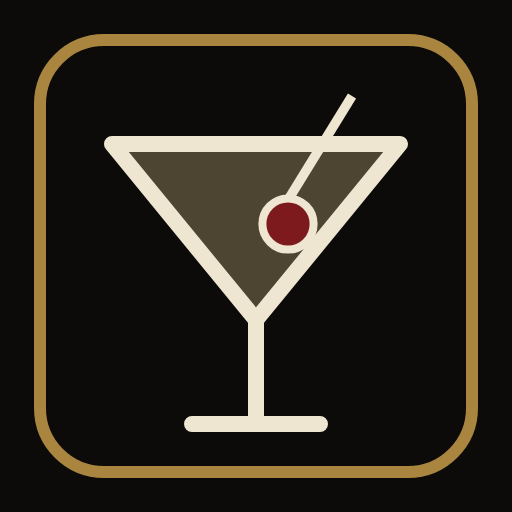
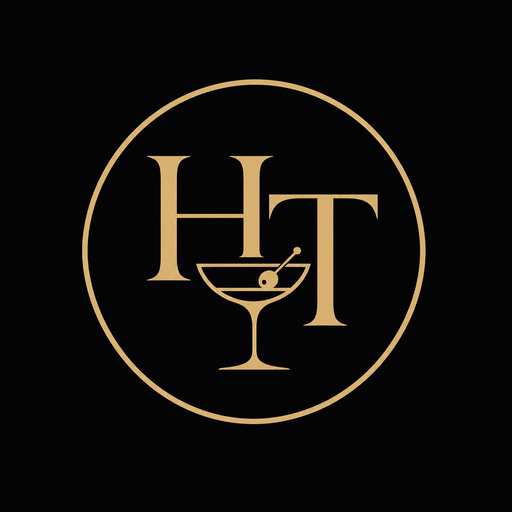
Add premium HT cocktail branding and home masthead

diff --git a/app/style.css b/app/style.css
@@ -51,9 +51,9 @@ button { font: inherit; color: inherit; }
 .cover-top { position: absolute; z-index: 2; top: calc(14px + env(safe-area-inset-top)); right: 16px; }
 .cover-inner { position: relative; z-index: 1; max-width: 1120px; margin: 0 auto; padding: calc(64px + env(safe-area-inset-top)) 20px calc(28px + env(safe-area-inset-bottom)); min-height: 100vh; min-height: 100dvh; display: flex; flex-direction: column; }
 .cover-brand { text-align: center; animation: rise-in 1s ease both; }
-.monogram { width: 56px; height: 56px; color: var(--gold-2); }
+.monogram { width: 96px; height: 96px; margin: 0 auto; object-fit: contain; border-radius: 50%; }
 .eyebrow { margin: 14px 0 0; font-size: 11.5px; font-weight: 500; letter-spacing: var(--track); text-transform: uppercase; color: rgba(243, 238, 230, .75); }
-.brand-title { margin: 10px 0 0; font-family: var(--display); font-weight: 400; font-size: clamp(50px, 14vw, 112px); line-height: .95; letter-spacing: var(--track-tight); color: var(--text); text-shadow: 0 2px 30px rgba(0, 0, 0, .55); }
+.brand-title { margin: 16px 0 0; font-family: var(--display); font-weight: 400; font-size: clamp(34px, 9vw, 100px); line-height: 1.05; letter-spacing: .065em; color: var(--text); text-shadow: 0 2px 30px rgba(0, 0, 0, .55); }
 .cover-tag { margin: 14px 0 0; font-family: var(--ui); font-weight: 400; font-size: 13px; letter-spacing: var(--track); text-transform: uppercase; color: rgba(243, 238, 230, .85); }
 .cover-tag::before, .cover-tag::after { content: ''; display: inline-block; width: 34px; height: 1px; background: var(--gold); vertical-align: middle; margin: 0 14px; opacity: .7; }
 .cover-grid { margin-top: auto; padding-top: 36vh; display: grid; gap: 28px; align-items: end; }
@@ -93,8 +93,8 @@ button { font: inherit; color: inherit; }
 .shell[hidden] { display: none; }
 .topbar { position: sticky; top: 0; z-index: 30; display: flex; align-items: center; justify-content: space-between; gap: 12px; padding: calc(10px + env(safe-area-inset-top)) 16px 10px; background: var(--bg); border-bottom: 1px solid var(--line); }
 .topbar-brand { display: flex; align-items: center; gap: 10px; text-decoration: none; color: var(--gold-2); flex: none; }
-.topbar-brand .monogram { width: 28px; height: 28px; }
-.topbar-brand span { font-family: var(--display); font-weight: 500; font-size: 15px; letter-spacing: .22em; text-transform: uppercase; color: var(--text); }
+.topbar-brand .monogram { width: 36px; height: 36px; margin: 0; }
+.topbar-brand span { font-family: var(--display); font-weight: 500; font-size: 15px; letter-spacing: .16em; text-transform: uppercase; color: var(--text); }
 .topbar-right { display: flex; align-items: center; gap: 10px; }
 .user-account { position: relative; flex: none; }
 .user-toggle { display: flex; align-items: center; justify-content: center; gap: 7px; min-height: 44px; padding: 6px 10px; border: 1px solid var(--line-gold); border-radius: var(--radius); background: transparent; color: var(--gold-2); cursor: pointer; }
@@ -302,12 +302,19 @@ main { max-width: 1240px; margin: 0 auto; padding: 8px 16px 40px; outline: none;
 
 /* ── Início: introdução editorial ── */
 .intro { max-width: 1120px; margin: 0 auto; }
+.intro-brand { display: flex; flex-direction: column; align-items: center; padding: 24px 0 32px; text-align: center; }
+.intro-brand-emblem { width: 88px; height: 88px; margin-bottom: 14px; object-fit: contain; border-radius: 50%; }
+.intro-brand-title { margin: 0; font-family: var(--display); font-size: clamp(30px, 8.2vw, 76px); font-weight: 400; line-height: 1.1; letter-spacing: .095em; text-indent: .095em; color: var(--text); }
+.intro-brand-title span:last-child { color: var(--gold-2); }
+.intro-brand-tagline { display: flex; align-items: center; gap: 14px; margin: 14px 0 0; font-size: 9px; font-weight: 500; letter-spacing: .24em; text-transform: uppercase; color: var(--gold); }
+.intro-brand-tagline::before, .intro-brand-tagline::after { content: ''; width: 28px; height: 1px; background: var(--line-gold); }
+@media (min-width: 860px) { .intro-brand { padding: 34px 0 42px; } .intro-brand-emblem { width: 112px; height: 112px; margin-bottom: 18px; } .intro-brand-tagline { font-size: 11px; gap: 20px; } .intro-brand-tagline::before, .intro-brand-tagline::after { width: 52px; } }
 .intro-hero { position: relative; margin: 0 -16px; min-height: 68vh; display: flex; align-items: flex-end; overflow: hidden; }
 .intro-hero img { position: absolute; inset: 0; width: 100%; height: 100%; object-fit: cover; object-position: 50% 60%; filter: saturate(.5) sepia(.3) contrast(1.05) brightness(.8); }
 .intro-hero::after { content: ''; position: absolute; inset: 0; background: linear-gradient(180deg, rgba(11, 11, 12, .1) 0%, rgba(11, 11, 12, .35) 45%, var(--bg) 100%); }
 .intro-hero-text { position: relative; z-index: 1; padding: 0 20px 36px; max-width: 760px; }
 .intro-hero .eyebrow { margin: 0; color: var(--gold-2); }
-.intro-hero h1 { margin: 10px 0 0; font-family: var(--display); font-weight: 400; font-size: clamp(46px, 11vw, 90px); line-height: 1; letter-spacing: var(--track-tight); }
+.intro-hero h2 { margin: 10px 0 0; font-family: var(--display); font-weight: 400; font-size: clamp(46px, 11vw, 90px); line-height: 1; letter-spacing: var(--track-tight); }
 .intro-lede { margin: 16px 0 0; font-family: var(--read); font-size: 20px; line-height: 1.6; color: #e2d9c9; max-width: 46ch; }
 @media (min-width: 860px) { .intro-hero { margin: 0; min-height: 540px; border-radius: var(--radius); } .intro-hero-text { padding: 0 52px 52px; } }
 .intro-index { display: flex; gap: 6px 22px; overflow-x: auto; padding: 16px 2px; border-bottom: 1px solid var(--line); scrollbar-width: none; }
@@ -518,7 +525,7 @@ html { -webkit-tap-highlight-color: transparent; }
   .tut-txt { font-size: 17.5px; }
   .tut-step { padding: 8px 4px 10px 0; min-height: 44px; }
   /* Início */
-  .intro-hero h1 { font-size: 42px; }
+  .intro-hero h2 { font-size: 42px; }
   .intro-lede { font-size: 17.5px; }
   .tabs a { min-height: 54px; }
 }

diff --git a/app/index.html b/app/index.html
@@ -9,7 +9,7 @@
   <meta name="apple-mobile-web-app-title" content="Home Tender">
   <meta name="description" content="Home Tender: the classic cocktails of the IBA official list, with history, recipes, glassware, tools and suggestions from your own bar. Português, English, Español.">
   <title>Home Tender</title>
-  <link rel="icon" href="icon.svg">
+  <link rel="icon" href="icon-192.png" type="image/png">
   <link rel="apple-touch-icon" href="apple-touch-icon.png">
   <link rel="manifest" href="manifest.webmanifest">
   <link rel="preload" as="image" href="img/cover.jpg">
@@ -26,9 +26,9 @@
     <div class="cover-top"><div class="lang-switch" data-lang-switch></div></div>
     <div class="cover-inner">
       <div class="cover-brand">
-        <svg class="monogram" viewBox="0 0 64 64" aria-hidden="true"><circle cx="32" cy="32" r="30" fill="none" stroke="currentColor" stroke-width=".8"/><circle cx="32" cy="32" r="27" fill="none" stroke="currentColor" stroke-width=".4"/><path d="M19 22 H45 L32 37 Z M32 37 V48 M25 48 H39" fill="none" stroke="currentColor" stroke-width="1.2" stroke-linejoin="round"/><circle cx="36" cy="27" r="2" fill="currentColor"/></svg>
+        <img class="monogram" src="img/brand/ht-emblem.png" alt="" aria-hidden="true" width="96" height="96">
         <p class="eyebrow" data-i18n="eyebrow"></p>
-        <h1 id="cover-title" class="brand-title">Home Tender</h1>
+        <h1 id="cover-title" class="brand-title">HOMETENDER</h1>
         <p class="cover-tag" data-i18n="tagline"></p>
       </div>
 
@@ -67,8 +67,8 @@
   <div class="shell" id="shell" hidden>
     <header class="topbar">
       <a class="topbar-brand" href="#/inicio" aria-label="Home Tender">
-        <svg class="monogram" viewBox="0 0 64 64" aria-hidden="true"><circle cx="32" cy="32" r="30" fill="none" stroke="currentColor" stroke-width="1.4"/><path d="M19 22 H45 L32 37 Z M32 37 V48 M25 48 H39" fill="none" stroke="currentColor" stroke-width="2" stroke-linejoin="round"/></svg>
-        <span>Home Tender</span>
+        <img class="monogram" src="img/brand/ht-emblem.png" alt="" aria-hidden="true" width="36" height="36">
+        <span>HOMETENDER</span>
       </a>
       <nav class="tabs" aria-label="Menu">
         <a href="#/inicio" data-tab="inicio"><svg viewBox="0 0 24 24" aria-hidden="true"><path d="M3.5 11 L12 4 L20.5 11 M6 9.5 V20 H18 V9.5 M10 20 V14 H14 V20"/></svg><span data-i18n="tabHome"></span></a>

diff --git a/app/content.js b/app/content.js
@@ -1,5 +1,5 @@
 // Home Tender — textos editoriais (introdução) e créditos das fotos, em três idiomas.
-import {getLang} from './i18n.js';
+import {getLang, t} from './i18n.js';
 
 const esc = s => String(s ?? '').replace(/[&<>"']/g, c => ({'&': '&amp;', '<': '&lt;', '>': '&gt;', '"': '&quot;', "'": '&#39;'}[c]));
 const pick = v => Array.isArray(v) ? v[{pt: 0, en: 1, es: 2}[getLang()] ?? 0] : v;
@@ -193,11 +193,16 @@ export function introHTML({name, counts, showcase = [], labels}) {
   const ids = ['sec-conceito', 'sec-historia', 'sec-biblioteca', 'sec-casa', 'sec-tecnica'];
   return `
   <article class="intro">
+    <header class="intro-brand" aria-label="Hometender">
+      <img class="intro-brand-emblem" src="img/brand/ht-emblem.png" alt="" aria-hidden="true" width="112" height="112">
+      <h1 class="intro-brand-title"><span>HOME</span><span>TENDER</span></h1>
+      <p class="intro-brand-tagline">${esc(t('eyebrow'))}</p>
+    </header>
     <header class="intro-hero">
       <img src="${PHOTOS.noite.src}" alt="" aria-hidden="true">
       <div class="intro-hero-text">
         <p class="eyebrow">${esc(x.hello(first))}</p>
-        <h1>${x.heroTitle}</h1>
+        <h2>${x.heroTitle}</h2>
         <p class="intro-lede">${x.heroLede}</p>
       </div>
     </header>

diff --git a/tests/drinks.test.js b/tests/drinks.test.js
@@ -124,7 +124,7 @@ test('lista oficial IBA completa: 102 coquetéis, 34 por categoria, todos com fi
 
 test('nome da marca não muda e o preparo traduzido sai sem resíduos', async () => {
   const html = readFileSync(new URL('../app/index.html', import.meta.url), 'utf8');
-  assert.match(html, /<h1 id="cover-title" class="brand-title">Home Tender<\/h1>/);
+  assert.match(html, /<h1 id="cover-title" class="brand-title">HOMETENDER<\/h1>/);
   assert.match(html, /<title>Home Tender<\/title>/);
   const {t} = await import('../app/i18n.js');
   for (const lang of ['pt', 'en', 'es']) {

diff --git a/README.md b/README.md
@@ -27,6 +27,18 @@ Para ativar a primeira vez: Settings → Pages → Source: **GitHub Actions**.
 
 `i18n.js` traz a interface e os dados traduzidos; `steps-i18n.js`, os passos de preparo. O seletor PT/EN/ES fica no canto superior direito e a escolha é salva no aparelho.
 
+## Marca e ícone do app
+
+O emblema HT com taça de coquetel usa dourado champanhe sobre preto e aparece na capa, na barra superior e no cabeçalho HOMETENDER da tela Início. Os ícones PNG do aplicativo, do iPhone e o favicon usam a mesma marca; a versão maskable mantém margem para os recortes do sistema.
+
+Arquivos para usar a marca fora do app, em `docs/brand/`:
+
+- `ht-icon-1024.png`: símbolo quadrado em alta resolução.
+- `logo-hometender.svg`: marca completa com símbolo e nome, em arquivo independente.
+- `logo-hometender.png`: marca completa em PNG, com fundo preto.
+
+O emblema foi criado com geração de imagem por IA. O SVG da marca completa mantém a tipografia como texto e inclui o emblema PNG incorporado.
+
 ## Fotos dos drinks
 
 `app/img/drinks/<id>.webp` traz imagens fotorrealistas dos drinks, geradas com IA em estilo de fotografia de produto: fundo preto, bancada espelhada, vidro, gelo e guarnição. A origem das novas imagens fica em `app/img/drinks/sources.json`; `photos.json` protege as imagens aprovadas contra substituição pelo render geométrico.
